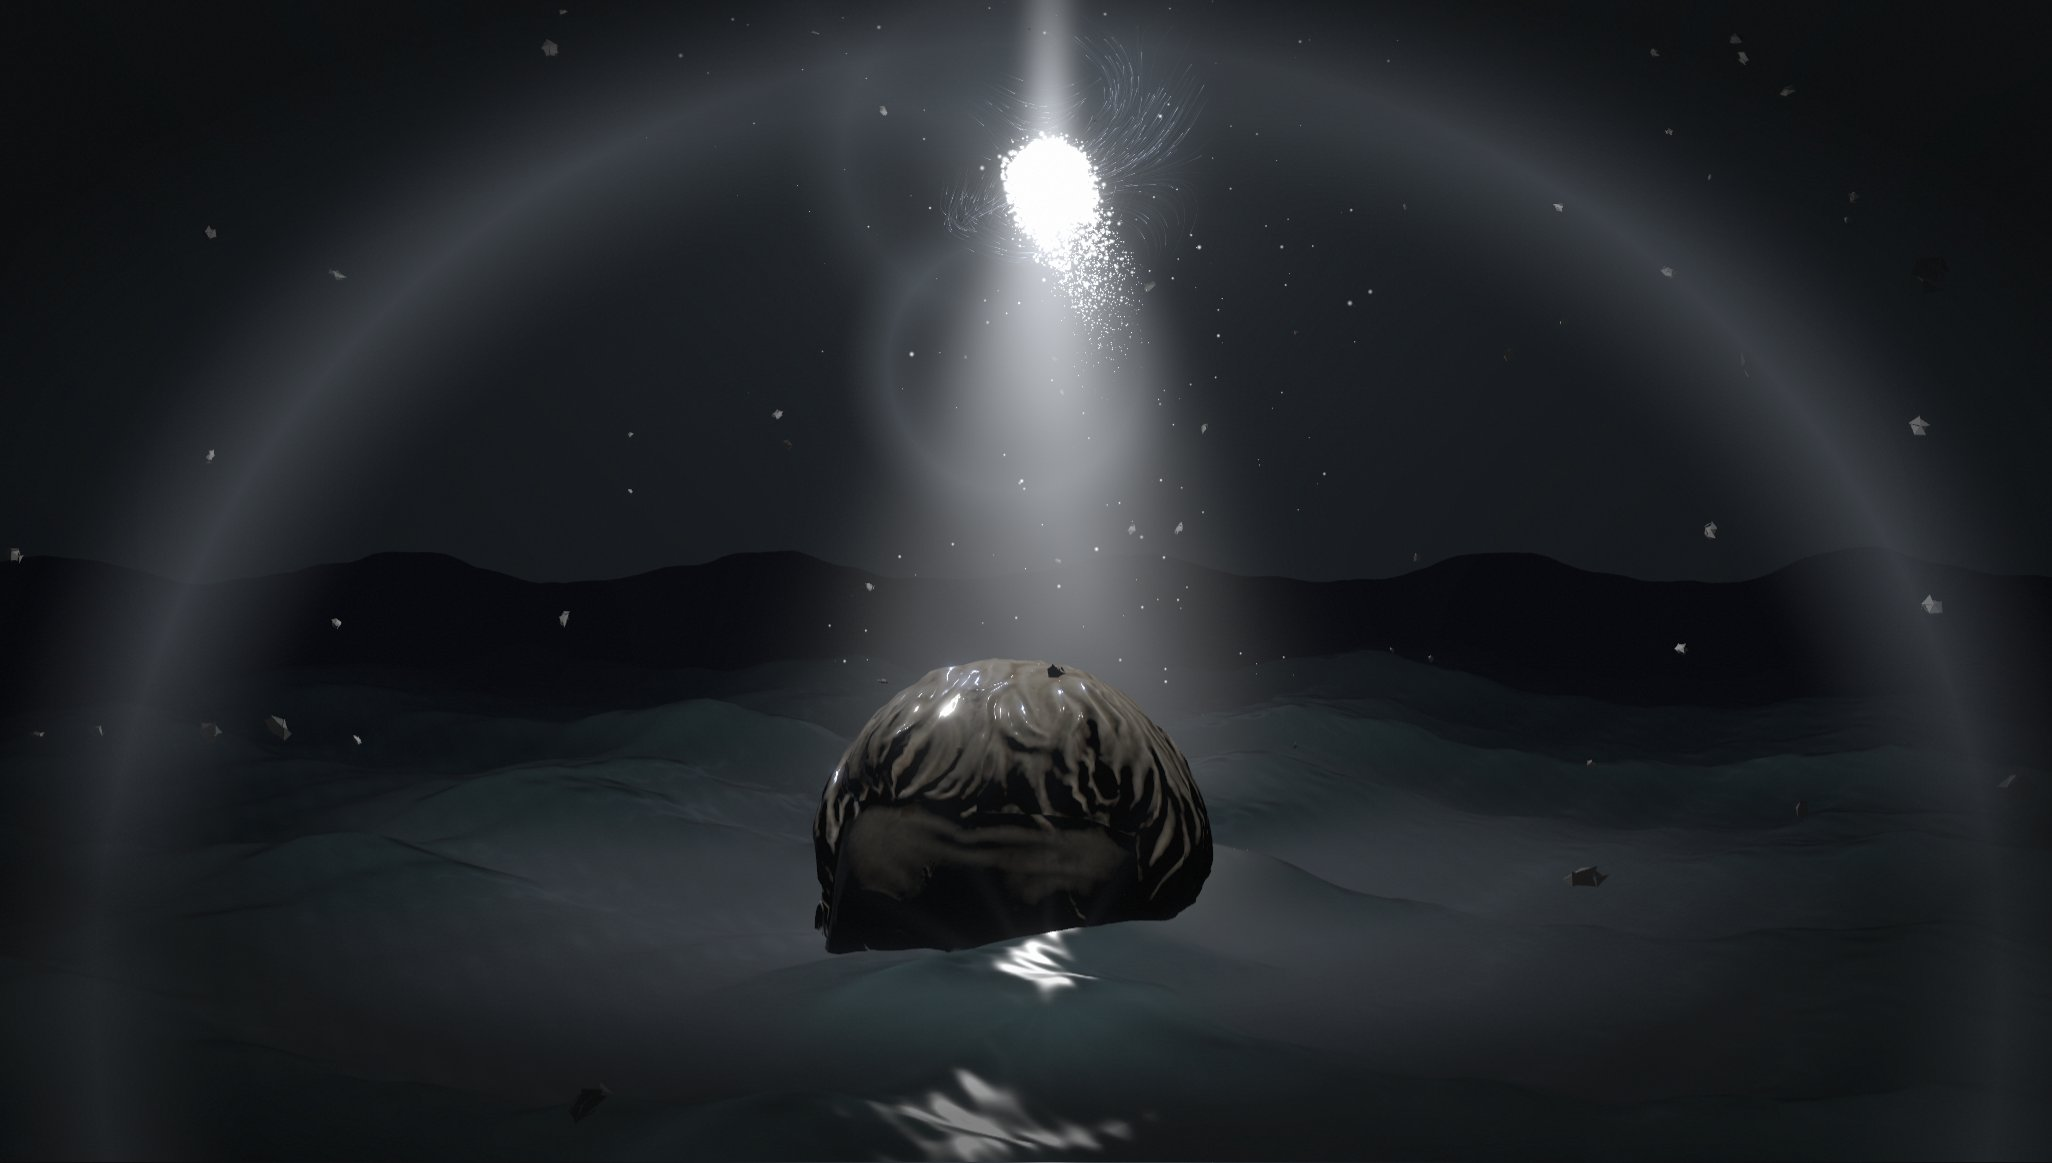
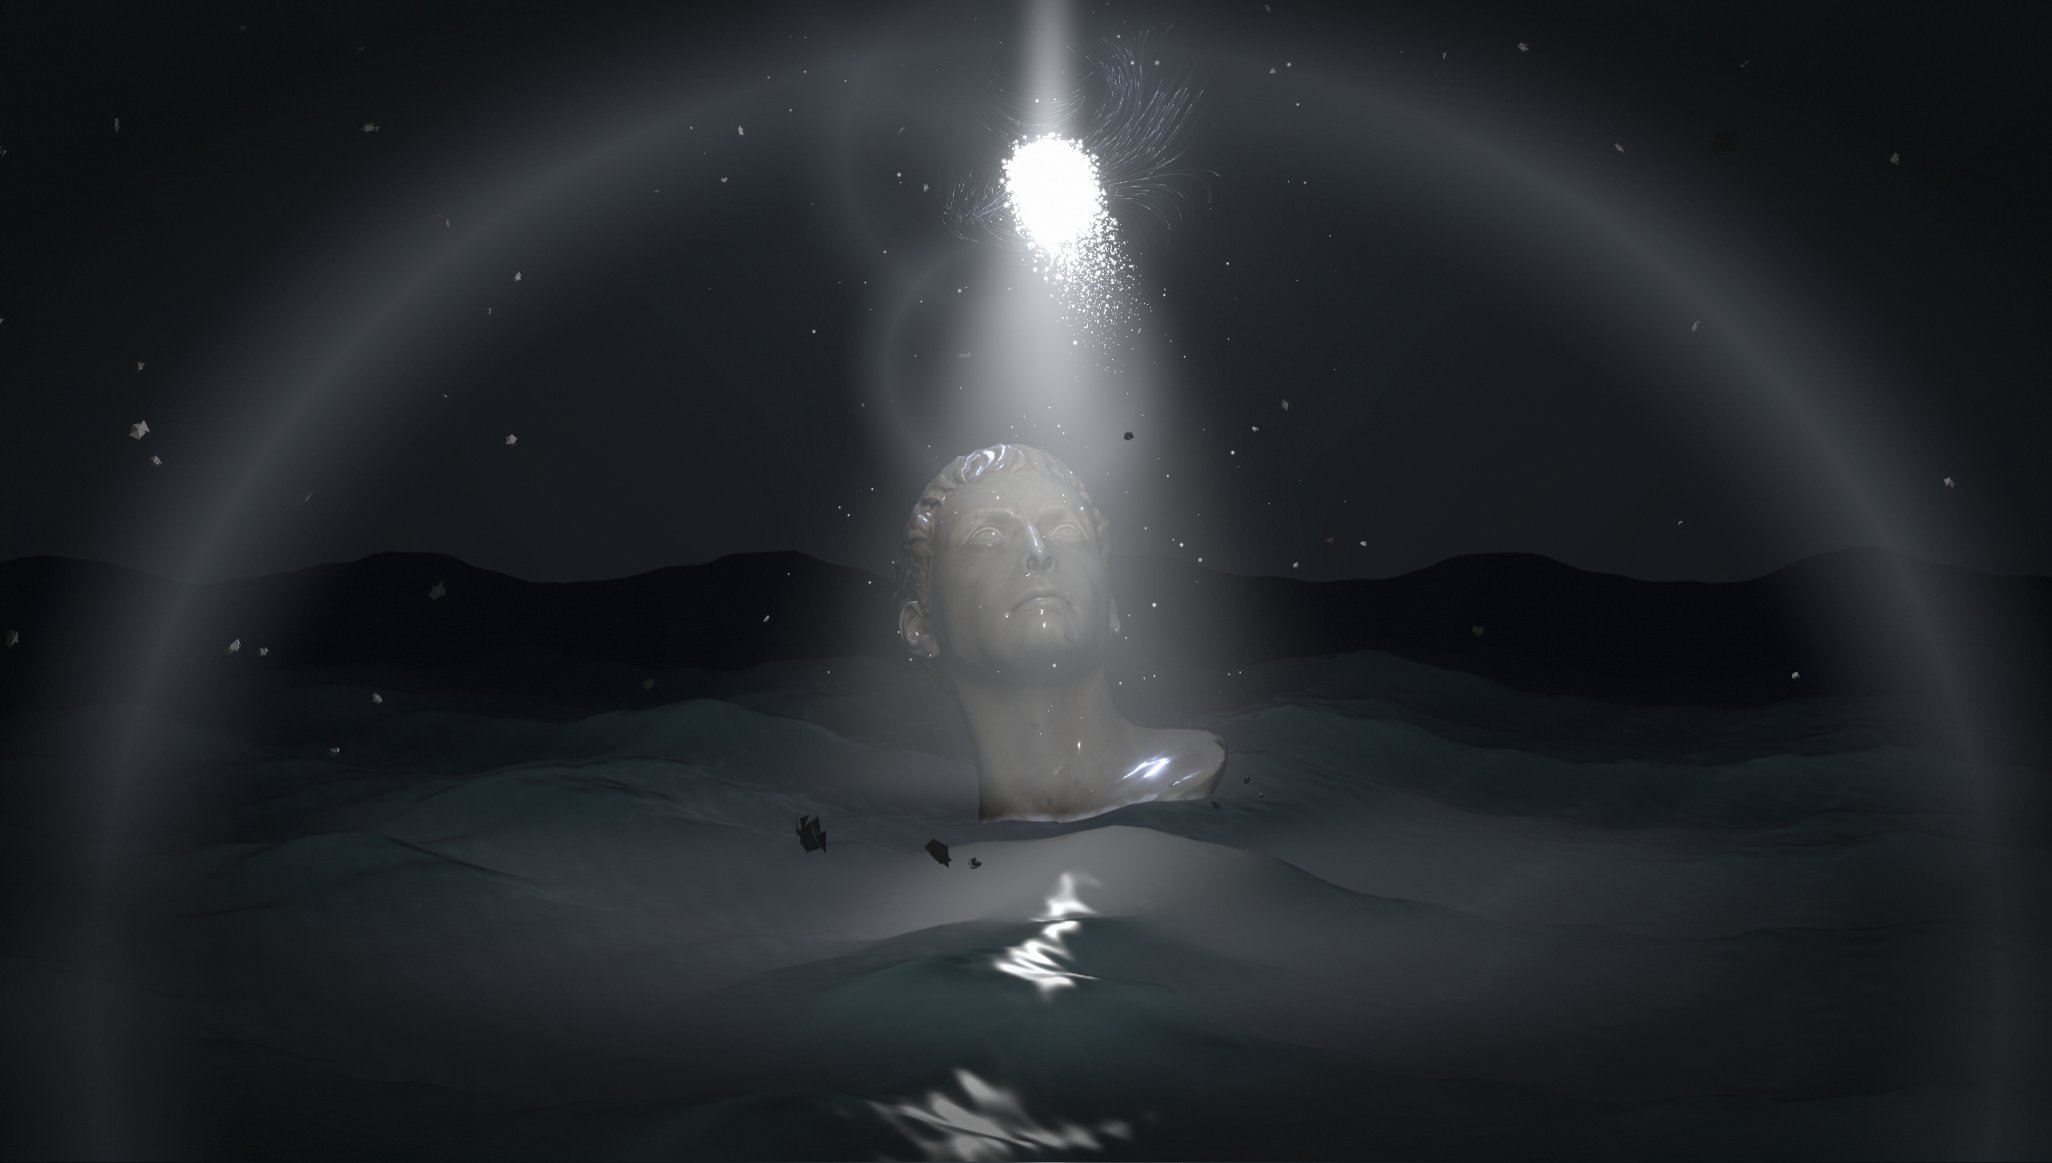
Place the head in front of the column, face lifted to the light
New statue defaults tuned on the panel: height 32.5, crown 9.05 above the sea, at (2.3, 35.3), turned -158 degrees and leaning back 37 degrees. Screenshots retaken.

diff --git a/src/statue.js b/src/statue.js
@@ -16,12 +16,12 @@ import { GLTFLoader } from "three/addons/loaders/GLTFLoader.js";
 export function createStatue({ url, ocean, clock })
 {
     const settings = {
-        height: 46,       // height of the whole bust in world units
-        top: 3.5,         // where the crown sits above the calm sea level
-        x: 0,
-        z: 0,
-        turn: 180,        // degrees; 180 faces the default camera
-        lean: -6,         // degrees, forward tilt of the head
+        height: 32.5,     // height of the whole bust in world units
+        top: 9.05,        // where the crown sits above the calm sea level
+        x: 2.3,
+        z: 35.3,
+        turn: -158,       // degrees; around 180 faces the default camera
+        lean: -37,        // degrees, forward tilt of the head
         brightness: 1.6,
         wetReach: 0.6,    // how far above the waterline the stone is wet even at the lowest wave
         dryTime: 6,       // seconds for wet stone to dry by one unit
